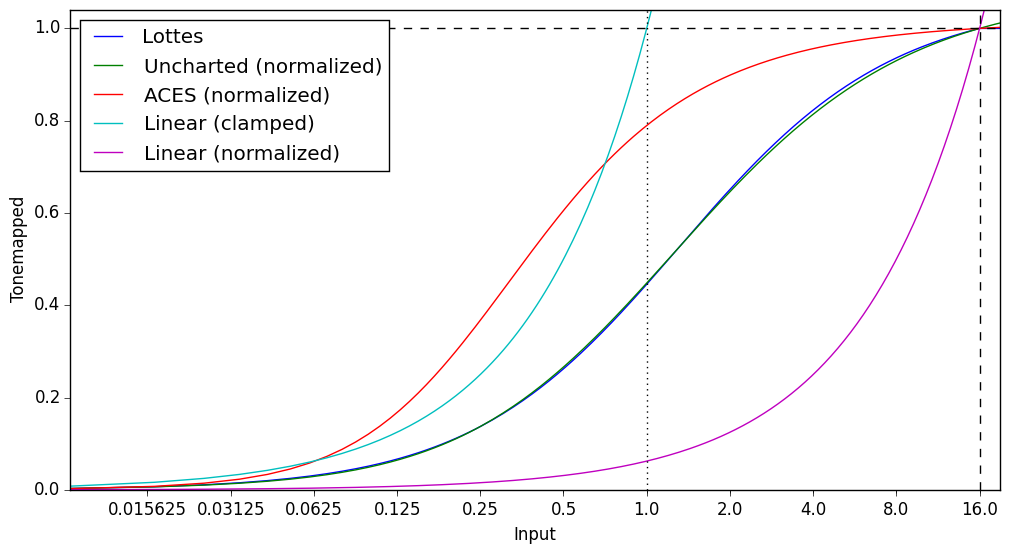
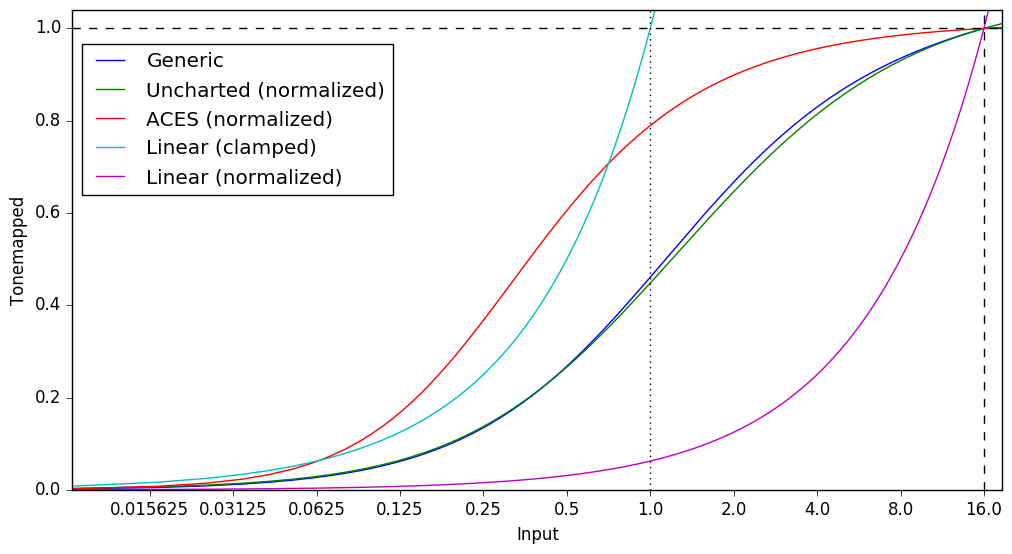
This and that. Started on piecewise curve

diff --git a/tonemapper.py b/tonemapper.py
@@ -6,37 +6,134 @@ import numpy
 # but with corrections like in https://bartwronski.com/2016/09/01/dynamic-range-and-evs/comment-page-1/#comment-2360
 
 # Setting similar to Uncharted:
-# contrast = 1.15
-# shoulder = 0.995
-# mid_in = 0.33
+# contrast = 1.25
+# shoulder = 0.975
+# mid_in = 0.25
 # mid_out = 0.18
 
-def lottes(x, hdr_max):
-    a = 1.15 # contrast
-    d = 0.995 # shoulder
+class Generic():
+    def __init__(self, hdr_max):
+        a = 1.25 # contrast
+        d = 0.975 # shoulder
 
-    mid_in = 0.33
-    mid_out = 0.18
+        mid_in = 0.33
+        mid_out = 0.18
 
-    ad = a * d
+        ad = a * d
 
-    midi_pow_a  = pow(mid_in, a)
-    midi_pow_ad = pow(mid_in, ad)
-    hdrm_pow_a  = pow(hdr_max, a)
-    hdrm_pow_ad = pow(hdr_max, ad)
-    u = hdrm_pow_ad * mid_out - midi_pow_ad * mid_out
-    v = midi_pow_ad * mid_out
+        midi_pow_a  = pow(mid_in, a)
+        midi_pow_ad = pow(mid_in, ad)
+        hdrm_pow_a  = pow(hdr_max, a)
+        hdrm_pow_ad = pow(hdr_max, ad)
+        u = hdrm_pow_ad * mid_out - midi_pow_ad * mid_out
+        v = midi_pow_ad * mid_out
+
+        self.a = a
+        self.d = d
+        self.b = -((-midi_pow_a + (mid_out * (hdrm_pow_ad * midi_pow_a - hdrm_pow_a * v)) / u) / v)
+        self.c = (hdrm_pow_ad * midi_pow_a - hdrm_pow_a * v) / u
+        self.hdr_max = hdr_max
+
+    def evaluate(self, x):
+        x = min(x, self.hdr_max)
+        z = pow(x, self.a)
+        y = z / (pow(z, self.d) * self.b + self.c)
+
+        return y
+
+class Piecewise():
     
-    b = -((-midi_pow_a + (mid_out * (hdrm_pow_ad * midi_pow_a - hdrm_pow_a * v)) / u) / v)
+    class Segment():
+        offset_x = 0.0
+        scale_x = 1.0
+        offset_y = 0.0
+        scale_y = 1.0
+        ln_a = 0.0
+        b = 1.0
+        
+        # def __init__(self):
 
-    c = (hdrm_pow_ad * midi_pow_a - hdrm_pow_a * v) / u
+        def evaluate(self, x):
+            #float x0 = (x - m_offsetX)*m_scaleX;
+	    #float y0 = expf(m_lnA + m_B*logf(x0));
+	    #return y0*m_scaleY + m_offsetY;
+            x = max(x, 0.000001)
 
-    x = min(x, hdr_max)
-    z = pow(x, a)
-    y = z / (pow(z, d) * b + c)
+            x0 = (x - self.offset_x) * self.scale_x
+            y0 = math.exp(self.ln_a + self.b * math.log(x0))
+            
+            return y0 * self.scale_y + self.offset_y
+        
+    def __init__(self, hdr_max):
+        self.segments = [self.Segment(), self.Segment(), self.Segment()]
 
-    return y
+        x0 = 0.3
+        y0 = 0.3
+        x1 = 0.7
+        y1 = 0.7
 
+        overshoot_x = 1.0
+        overshoot_y = 1.0
+        
+
+        norm_x0 = x0 / hdr_max
+        norm_x1 = x1 / hdr_max
+        norm_overshoot_x = overshoot_x / hdr_max
+
+        self.x0 = norm_x0
+        self.x1 = norm_x1
+        
+        # mid segment
+        m, b = Piecewise.as_slope_intercept(norm_x0, norm_x1, y0, y1)
+
+        self.segments[1].offset_x = -(b / m)
+        self.segments[1].ln_a = math.log(m)
+
+        # toe segment
+        toe_m = m
+        ln_a, b = Piecewise.solve_a_b(norm_x0, y0, toe_m)
+        self.segments[0].ln_a = ln_a
+        self.segments[0].b = b
+
+        # shoulder segment
+        shoulder_x0 = (1.0 + norm_overshoot_x) - norm_x1
+        shoulder_y0 = (1.0 + overshoot_y) - y1
+        
+        shoulder_m = m
+        ln_a, b = Piecewise.solve_a_b(shoulder_x0, shoulder_y0, shoulder_m)
+        self.segments[2].ln_a = ln_a
+        self.segments[2].b = b
+        self.segments[2].scale_x = 1.0
+        self.segments[2].scale_y = 1.0
+        
+        self.hdr_max = hdr_max
+        
+    def evaluate(self, x):
+        norm_x = x / self.hdr_max
+        
+        index = 0 if norm_x < self.x0 else (1 if norm_x < self.x1 else 2)
+        
+        return self.segments[index].evaluate(norm_x)
+
+    @staticmethod
+    def as_slope_intercept(x0, x1, y0, y1):
+        dy = y1 - y0
+        dx = x1 - x0
+
+        m = 1.0
+        if 0.0 != dx:
+            m = dy / dx
+
+        b = y0 - x0 * m
+
+        return m, b
+        
+    
+    @staticmethod
+    def solve_a_b(x0, y0, m):
+        b = (m * x0) / y0
+        return math.log(y0) - b * math.log(x0), b
+    
 # Uncharted like in http://filmicgames.com/archives/75Jo
 def uncharted(x):
     a = 0.22
@@ -73,31 +170,34 @@ def plot_linear():
     plt.figure(figsize=(12, 6))
 
     color_in = []
-    color_lottes = []
+    color_generic = []
+    color_piecewise = []
     color_uncharted = []
     color_aces = []
     color_linear = []
 
-    hdr_max = 16.0
+    hdr_max = 2.0
 
-    for x in numpy.linspace(0, 4.1, num=256):
+    generic = Generic(hdr_max)
+    
+    for x in numpy.linspace(0, 2.1, num=256):
         color = x
         color_in.append(color)
-        color_lottes.append(lottes(color, hdr_max))
+        color_generic.append(generic.evaluate(color))
         #color_uncharted.append(uncharted(color))
         color_uncharted.append(normalized_uncharted(color, hdr_max))
         #color_aces.append(aces(color))
         color_aces.append(normalized_aces(color, hdr_max))
         color_linear.append(normalized_linear(color, hdr_max))
 
-    plt.plot(color_in, color_lottes, label='Lottes')
+    plt.plot(color_in, color_generic, label='Generic')
     plt.plot(color_in, color_uncharted, label='Uncharted (normalized)')
     plt.plot(color_in, color_aces, label='ACES (normalized)')
     plt.plot(color_in, color_in, label='Linear (clamped)')
     plt.plot(color_in, color_linear, label='Linear (normalized)')
 
-    plt.axis([0, 4.04, 0, 1.04])
-    plt.legend(loc=4)
+    plt.axis([0, 2.04, 0, 1.04])
+    plt.legend(loc=4, bbox_to_anchor=[0.975, 0.0])
     plt.xlabel('Input')
     plt.ylabel('Tonemapped')
 
@@ -111,7 +211,7 @@ def plot_linear():
 
     ax.axhline(1.0,  linestyle='--', color='k')
     ax.axvline(1.0, linestyle=':', color='k')
-    ax.axvline(16.0, linestyle='--', color='k')
+    ax.axvline(2.0, linestyle='--', color='k')
 
     plt.savefig('tonemapper_linear.png', bbox_inches='tight')
 
@@ -120,31 +220,37 @@ def plot_log():
     plt.figure(figsize=(12, 6))
 
     color_in = []
-    color_lottes = []
+    color_generic = []
+    #color_piecewise = []
     color_uncharted = []
     color_aces = []
     color_linear = []
 
     hdr_max = 16.0
 
+    generic = Generic(hdr_max)
+    #piecewise = Piecewise(hdr_max)
+    
     for x in numpy.logspace(-1, 5, num=256, base=2):
         color = x - math.pow(2, -1)
         color_in.append(color)
-        color_lottes.append(lottes(color, hdr_max))
+        color_generic.append(generic.evaluate(color))
+        #color_piecewise.append(piecewise.evaluate(color))
         #color_uncharted.append(uncharted(color))
         color_uncharted.append(normalized_uncharted(color, hdr_max))
         #color_aces.append(aces(color))
         color_aces.append(normalized_aces(color, hdr_max))
         color_linear.append(normalized_linear(color, hdr_max))
 
-    plt.semilogx(color_in, color_lottes, basex=2, label='Lottes')
+    plt.semilogx(color_in, color_generic, basex=2, label='Generic')
+    #plt.plot(color_in, color_piecewise, label='Piecewise')
     plt.plot(color_in, color_uncharted, label='Uncharted (normalized)')
     plt.plot(color_in, color_aces, label='ACES (normalized)')
     plt.plot(color_in, color_in, label='Linear (clamped)')
     plt.plot(color_in, color_linear, label='Linear (normalized)')
 
-    plt.axis([0, 19, 0, 1.04])
-    plt.legend(loc=2)
+    plt.axis([0, 18.66, 0, 1.04])
+    plt.legend(loc=2, bbox_to_anchor=[0.0, 0.95])
     plt.xlabel('Input')
     plt.ylabel('Tonemapped')
 
@@ -168,5 +274,5 @@ def plot_log():
 
     plt.savefig('tonemapper_log.png', bbox_inches='tight')
 
-#plot_linear()
+plot_linear()
 plot_log()
